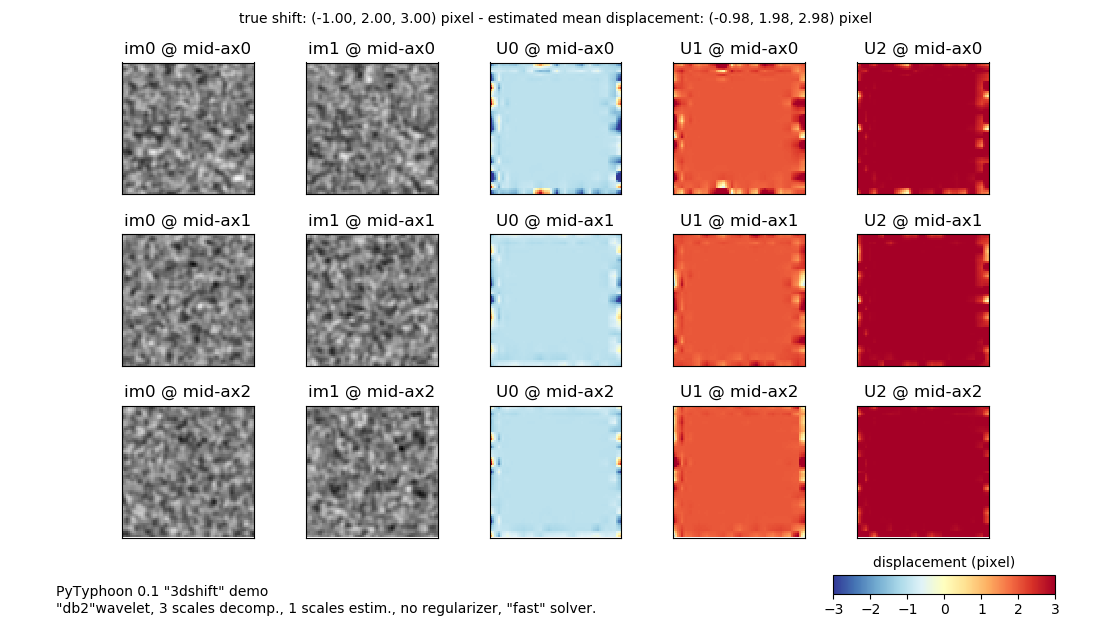
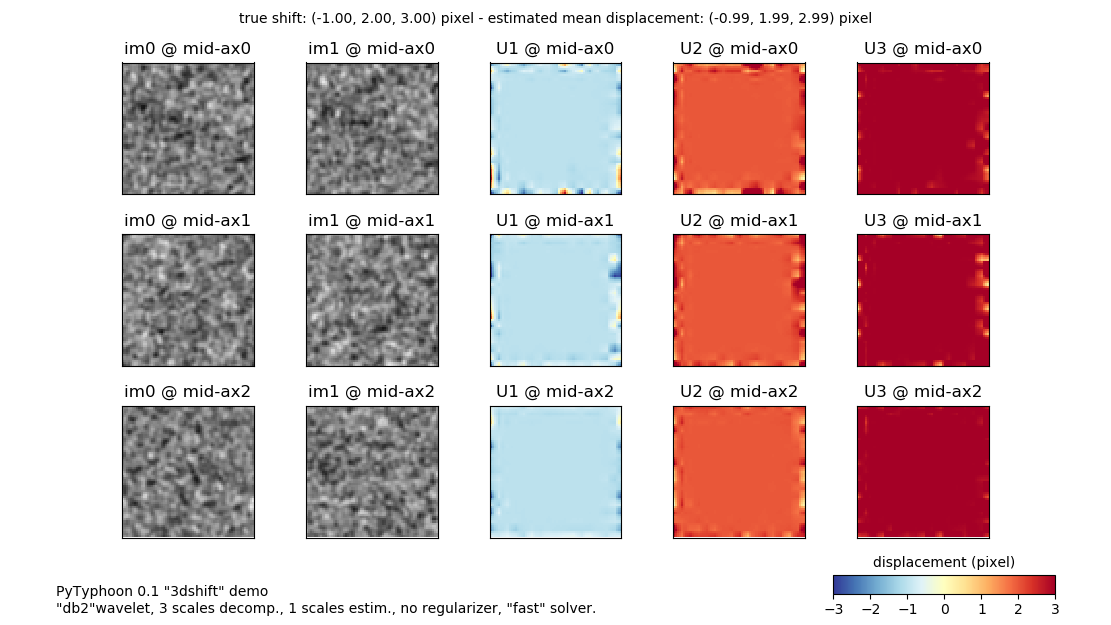
added 3dvortex demo

diff --git a/pytyphoon.py b/pytyphoon.py
@@ -516,12 +516,14 @@ if __name__=="__main__":
                 __version__, typhoon.wav.name, typhoon.levels_decomp, typhoon.levels_estim),
             size='medium', ha='left', va='bottom')
         pyplot.figtext(
-            0.95, 0.015, 'RMSE={:.2f}'.format(rmse),
+            0.95, 0.015, 'RMSE={:.2f} pixel'.format(rmse),
             size='medium', ha='right', va='bottom')
         pyplot.show()
 
-    def demo_3dshift():
+    def demo_3dshift(seed=123456789):
         """Demo of 3D estimation with simple shift.
+
+        :param seed: seed for images generation. Pass None for random images.
 
         Synthetic images are generated by filtering gaussian noise.
         The true motion is a simple integer shift in all directions.
@@ -532,10 +534,12 @@ if __name__=="__main__":
         print('\n* PyTyphoon {} ({}) – "3dshift" demo'.format(__version__, __file__))
 
         ### create synthetic images
+        print('Generating images...')
         # sum of random normal noise filtered by different gaussian kernels.
         size = 64
         sigma_list = [1., 3., 9.]
         im0 = numpy.zeros((size, size, size))
+        numpy.random.seed(seed) #seed the generator for repeatability
         for sigma in sigma_list:
             tmp = numpy.random.randn(size, size, size)
             im0 += ndimage.gaussian_filter(tmp, sigma, mode='wrap')
@@ -573,7 +577,7 @@ if __name__=="__main__":
                 ax.set_yticks([])
                 ax.set_title('im{} @ mid-ax{}'.format(j, i))
             # for each component
-            for j, (ax, Uj) in enumerate(zip(axes[i,2:], U)):
+            for j, (ax, Uj) in enumerate(zip(axes[i,2:], U), 1):
                 pc = ax.imshow(Uj[slice_mid], interpolation='nearest', cmap='RdYlBu_r',
                                vmin=-3, vmax=3)
                 ax.set_xticks([])
@@ -591,6 +595,113 @@ if __name__=="__main__":
             0.05, 0.015, 'PyTyphoon {} "3dshift" demo\n"{}"wavelet, {} scales decomp., {} scales estim., no regularizer, "fast" solver.'.format(
                 __version__, typhoon.wav.name, typhoon.levels_decomp, typhoon.levels_estim),
             size='medium', ha='left', va='bottom')
+        pyplot.show()
+
+    def demo_3dvortex(seed=123456789):
+        """Demo of 3D estimation with vortex motion.
+
+        :param seed: seed for images generation. Pass None for random images.
+
+        Synthetic images are generated by filtering gaussian noise.
+        Estimation is performed with the basic "fast" solver.
+
+        Written by P. DERIAN 2018-10-12.
+        """
+        print('\n* PyTyphoon {} ({}) – "3dvortex" demo'.format(__version__, __file__))
+
+        ### create synthetic images
+        print('Generating images...')
+        # sum of random normal noise filtered by different gaussian kernels.
+        size = 96
+        margin = 4 #add a margin on every dimension
+        sigma_list = [1., 3., 9.] #a list of gaussian blur sigma
+        size_tmp = size + 2*margin
+        im0 = numpy.zeros((size_tmp, size_tmp, size_tmp))
+        numpy.random.seed(seed) #seed the generator for repeatability
+        for sigma in sigma_list:
+            tmp = numpy.random.randn(size_tmp, size_tmp, size_tmp)
+            im0 += ndimage.gaussian_filter(tmp, sigma, mode='wrap')
+        # rescale to [0, 1]
+        min = im0.min()
+        max = im0.max()
+        im0 = (im0-min)/(max-min)
+        ### create synthetic motion
+        # the coordinates
+        X1, X2, X3 = numpy.indices(im0.shape, dtype=float)
+        # tubular vortex: from streamfunction
+        sigma = float(size)/3. #make sure it decays enough near edges
+        alpha = float(size) #amplitude factor
+        beta = 3. #amplitude max of 3rd component
+        x0 = [size_tmp//2 for _ in range(3)] #coordinates of center of volume
+        SF = alpha*numpy.exp((-1./sigma**2)*( (X1-x0[0])**2 + (X2-x0[1])**2))
+        G1, G2, _ = numpy.gradient(SF)
+        # first 2 components are vortex, third increase linearly from zero to beta
+        U_truth = (G2,
+                   -G1,
+                   (X3 - margin)*(beta/float(size))) #divide by n_adv due to multiple steps
+        # displacement coordinates
+        n_adv = 30 #number of advection steps
+        map_coords = numpy.vstack((X.ravel() for X in (X1, X2, X3))) #for interpolation
+        for n, Ui in enumerate(U_truth):
+            map_coords[n] -= (1./float(n_adv))*Ui.ravel()
+        # very crude advection
+        im1 = im0
+        for _ in range(n_adv):
+            im1 = ndimage.interpolation.map_coordinates(im1, map_coords, order=3,
+                                                        mode='constant').reshape(im0.shape)
+        # finally retain only the working area
+        if margin>0:
+            im0 = im0[margin:-margin, margin:-margin, margin:-margin]
+            im1 = im1[margin:-margin, margin:-margin, margin:-margin]
+            U_truth = tuple(Ui[margin:-margin, margin:-margin, margin:-margin] for Ui in U_truth)
+
+        ### perform estimation
+        # instance typhoon so we can use its internal coordinates for simplicity.
+        typhoon = Typhoon()
+        tstart = time.clock()
+        U = typhoon.solve_fast(im0, im1, wav='db3', levels_decomp=3, levels_estim=0)
+        tend = time.clock()
+        print('Estimation completed in {:.2f} s.'.format(tend-tstart))
+
+        ### post-process and display
+        rmse = RMSE(U_truth, U)
+        dpi = 72.
+        fig, axes = pyplot.subplots(3, 5, figsize=(800./dpi, 450./dpi))
+        # show the 3 component in the middle plane along each axis
+        slice_all = slice(None, None, None)
+        for i in range(3):
+            # slice of the mid-plane along this axis
+            slice_mid = [slice_all, slice_all, slice_all]
+            slice_mid[i] = size//2
+            # for each image
+            for j, (ax, imj) in enumerate(zip(axes[i,:2], [im0, im1])):
+                ax.imshow(imj[slice_mid], interpolation='nearest', cmap='gray',
+                          vmin=0, vmax=1)
+                ax.autoscale(tight=True)
+                ax.set_xticks([])
+                ax.set_yticks([])
+                ax.set_title('im{} @ mid-ax{}'.format(j, i))
+            # for each component
+            for j, (ax, Uj) in enumerate(zip(axes[i,2:], U), 1):
+                pc = ax.imshow(Uj[slice_mid], interpolation='nearest', cmap='RdYlBu_r',
+                               vmin=-3, vmax=3)
+                ax.set_aspect('equal')
+                ax.set_xticks([])
+                ax.set_yticks([])
+                ax.set_title('U{} @ mid-ax{}'.format(j, i))
+        pyplot.subplots_adjust(left=.1, right=.9, bottom=.14, top=.95, hspace=.3)
+        # colorbar
+        cax = fig.add_axes([.565, 0.05, .2, 0.03])
+        cb = pyplot.colorbar(pc, cax=cax, orientation='horizontal')
+        cb.ax.set_title('displacement (pixel)', fontdict={'fontsize':'medium'})
+        # labels
+        pyplot.figtext(
+            0.05, 0.015, 'PyTyphoon {} "3dvortex" demo\n"{}"wavelet, {} scales decomp., {} scales estim., no regularizer, "fast" solver.'.format(
+                __version__, typhoon.wav.name, typhoon.levels_decomp, typhoon.levels_estim),
+            size='medium', ha='left', va='bottom')
+        pyplot.figtext(
+            0.95, 0.015, 'RMSE={:.2f} pixel'.format(rmse),
+            size='medium', ha='right', va='bottom')
         pyplot.show()
 
     def main(argv):
@@ -647,6 +758,7 @@ if __name__=="__main__":
         # list of available demos
         demos = {'particles': demo_particles,
                  '3dshift': demo_3dshift,
+                 '3dvortex': demo_3dvortex,
                  }
         default_demo = lambda : print("[!] Unkown demo '{}', valid demos: {}".format(
             args.demo_name, list(demos.keys())))

diff --git a/README.md b/README.md
@@ -1,8 +1,13 @@
 # PyTyphoon
-Python implementation of [Typhoon motion estimator](http://www.pierrederian.net/typhoon.html): dense estimation of 2D optical flow on wavelet bases, primarily aimed at **fluid motion estimation**.
+Python implementation of [Typhoon motion estimator](http://www.pierrederian.net/typhoon.html): dense estimation of 2D/3D optical flow on wavelet bases, primarily aimed at **fluid motion estimation**.
 
-## Important remark
+## Important remarks
 At the moment, the wavelet-based data DFD term [(D&eacute;rian et al., 2013)] only is provided: the **high-order regularizers** [(Kadri-Harouna et al., 2013)] **are not included** in this implementation.
+
+The reference implementation used in [(D&eacute;rian et al., 2015)] and [(D&eacute;rian et al., 2017)] is written in C++ and GPU-accelerated with CUDA, and contains the high-order regularizers. It is the property of Inria (FR) and the CSU Chico Research
+Foundation (Ca, USA), and can be licensed from these institutions.
+*This Python implementation is not the same as the
+reference* for many reasons, and it is obviously much slower.
 
 ## Requirements
 - [Numpy, Scipy](https://scipy.org/);
@@ -15,6 +20,7 @@ Tested with Anaconda Python 3.6.1, Numpy 1.12.1, Scipy 0.19.1, PyWavelet 0.5.2.
 - some regularizers;
 - support of masks;
 - alternative penalization functions;
+- divergence-free wavelets;
 - ...
 
 ## Usage
@@ -28,6 +34,8 @@ will solve the problem for image pair (`im0.jpg`, `im1.jpg`) and wavelet Daubech
 See `python pytyphoon.py -h` for the complete list of parameters.
 
 ## Demos
+
+These demos are shipped with the project.
 
 ### (2D) Synthetic particle images
 Simple 2d estimation using synthetic particle images (256x256 pixels) originally created for the [FLUID project](http://fluid.irisa.fr/data-eng.htm) (image database #1). Run:
@@ -43,7 +51,22 @@ python pytyphoon.py --demo 3dshift
 ```
 ![3dshift results](demo/demo_3dshift.png)
 
+### (3D) Homogeneous shift
+Simple 3d estimation using synthetic images (96x96x96 pixels) obtained by filtering random normal noise at various scales. The displacement field is a column vortex (first two axes) with an updraft increasing linearly along the third axis. Run:
+```
+python pytyphoon.py --demo 3dvortex
+```
+![3dshift results](demo/demo_3dvortex.png)
+
 ## References
+- [(D&eacute;rian et al., 2017)]
+    D&eacute;rian, P. & Almar, R.
+    "Wavelet-based Optical Flow Estimation of Instant Surface Currents from Shore-based and UAV Video"
+    _IEEE Transactions on Geoscience and Remote Sensing_, Vol. 55, pp. 5790-5797, 2017.
+- [(D&eacute;rian et al., 2015)]
+     D&eacute;rian, P.; Mauzey, C. F. and Mayor, S. D.
+    "Wavelet-based optical flow for two-component wind field estimation from single aerosol lidar data"
+    _Journal of Atmospheric and Oceanic Technology_, Vol. 32, pp. 1759-1778, 2015.
 - [(D&eacute;rian et al., 2013)]
     D&eacute;rian, P.; H&eacute;as, P.; Herzet, C. & M&eacute;min, E.
     "Wavelets and Optical Flow Motion Estimation".
@@ -52,5 +75,7 @@ python pytyphoon.py --demo 3dshift
    "Divergence-free Wavelets and High Order Regularization".
    _International Journal of Computer Vision_, Vol. 103, pp. 80-99, 2013.
 
+[(D&eacute;rian et al., 2017)]: http://ieeexplore.ieee.org/stamp/stamp.jsp?tp=&arnumber=7964775&isnumber=8049540
+[(D&eacute;rian et al., 2015)]: http://journals.ametsoc.org/doi/abs/10.1175/JTECH-D-15-0010.1
 [(D&eacute;rian et al., 2013)]: https://www.cambridge.org/core/journals/numerical-mathematics-theory-methods-and-applications/article/wavelets-and-optical-flow-motion-estimation/2A9D13B316F000F0530AD42621B42FFD
 [(Kadri-Harouna et al., 2013)]: https://link.springer.com/article/10.1007/s11263-012-0595-7
